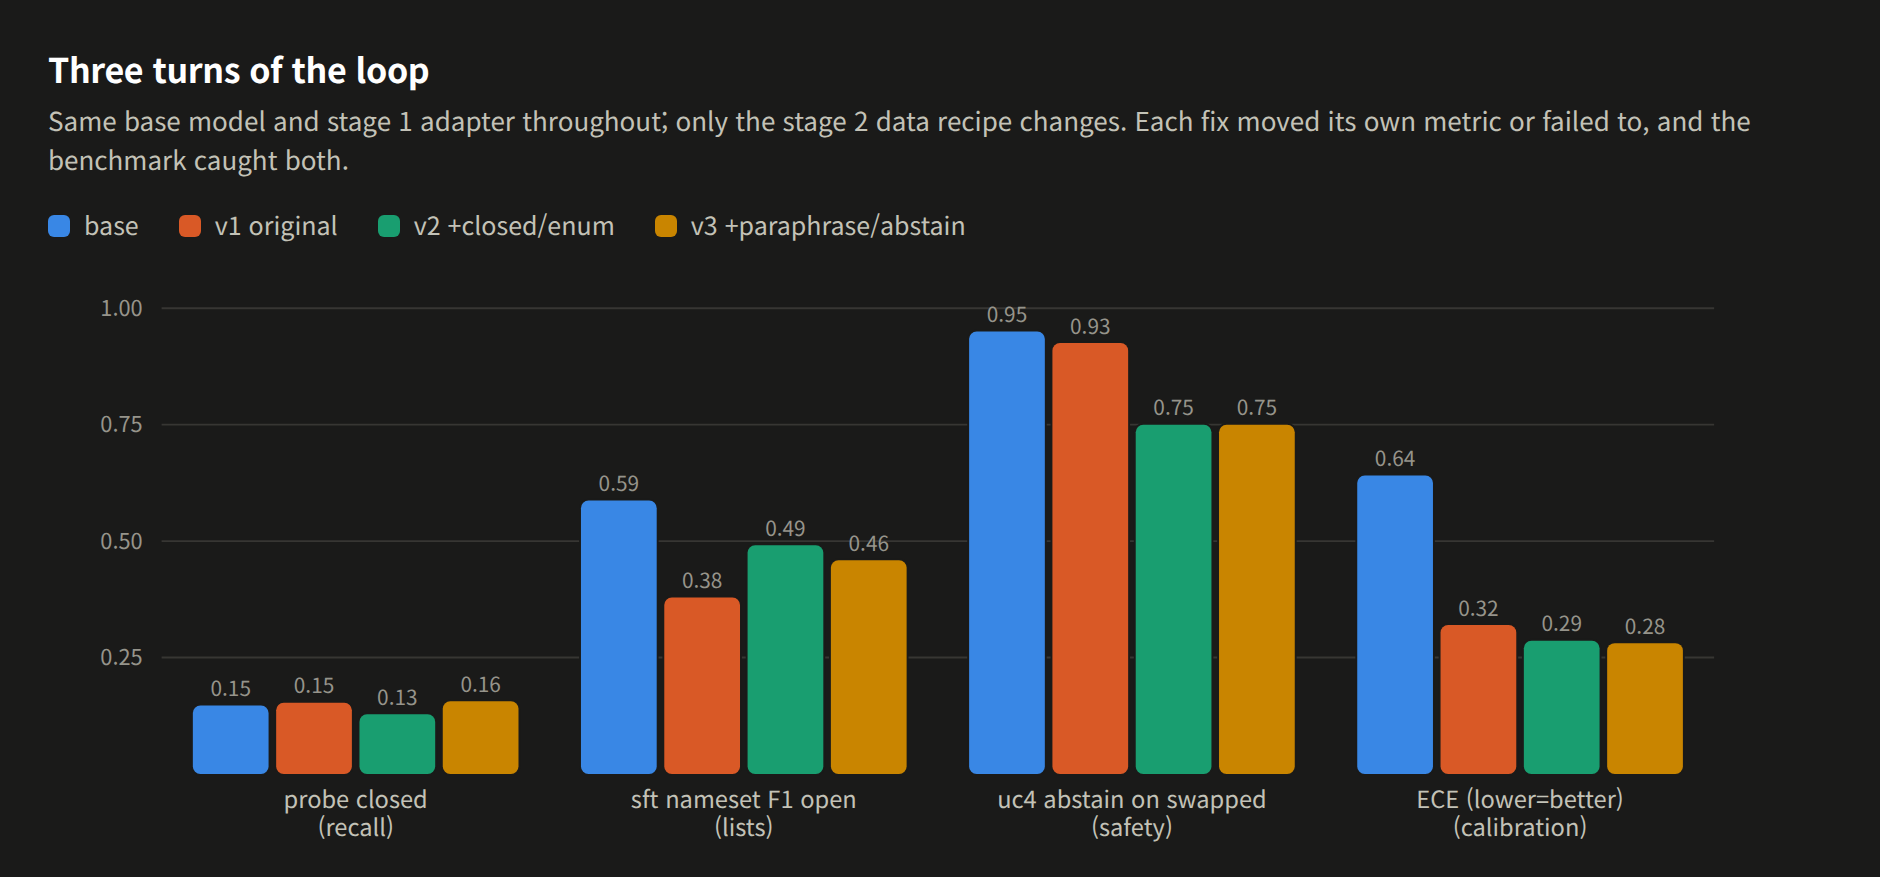
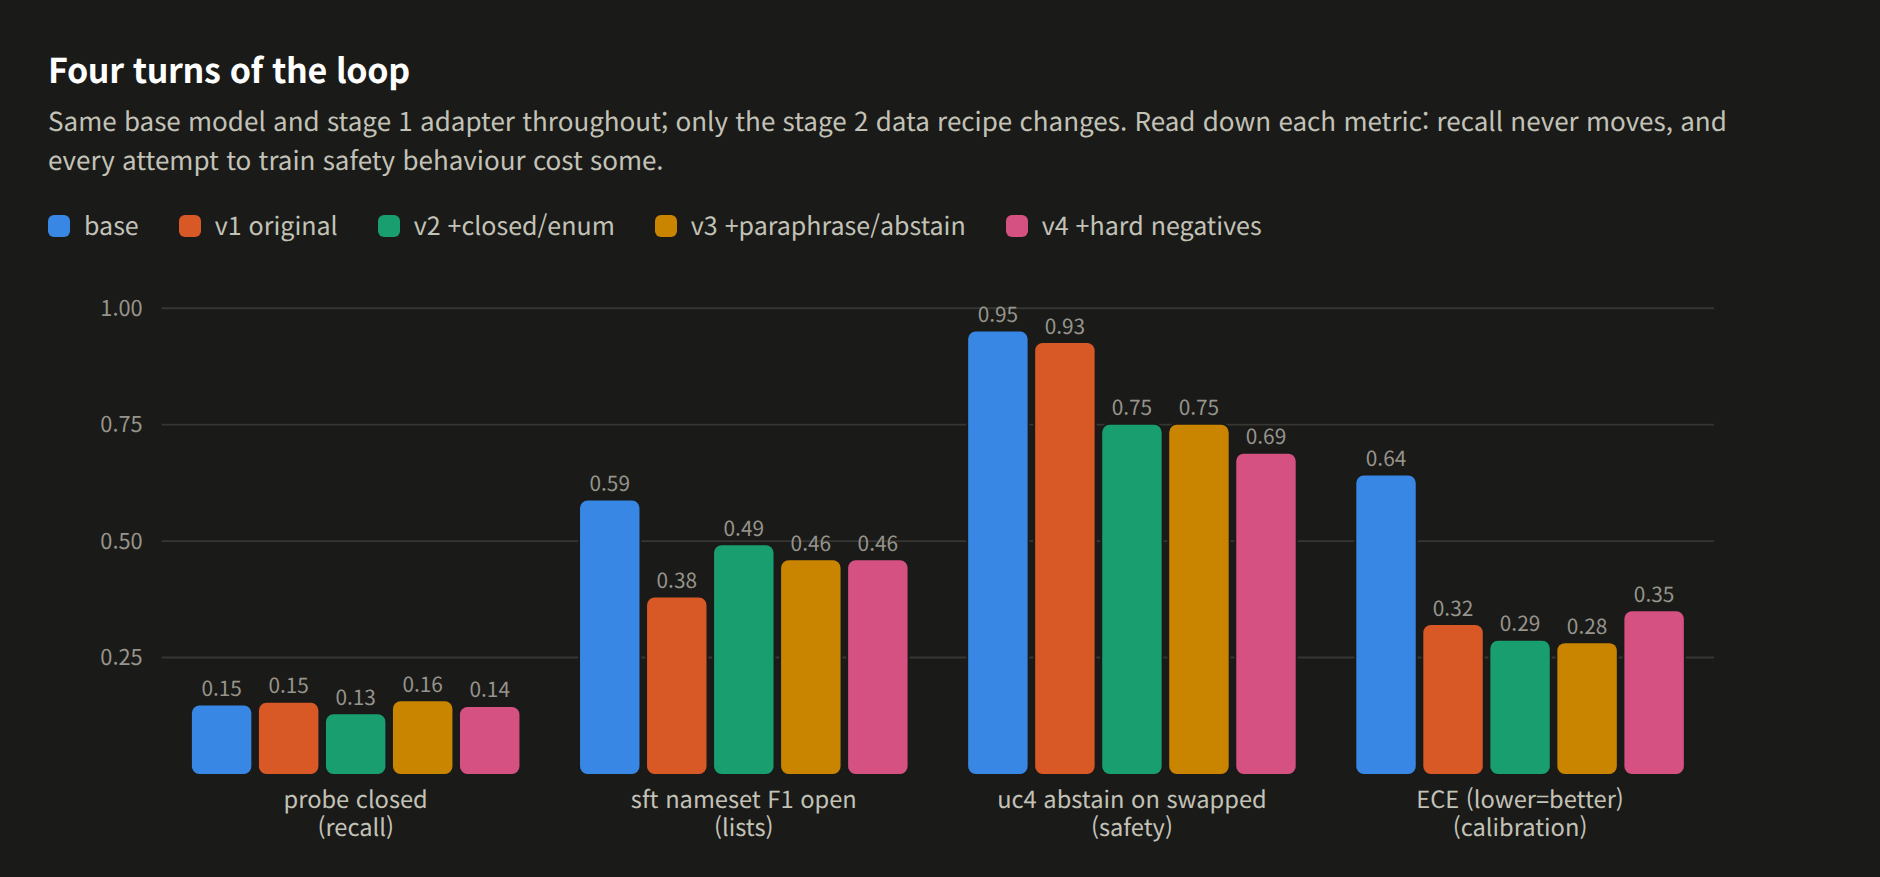
report the fourth turn: abstention is not trainable here, it is only breakable
v4 drew each refusal pair's swapped clause from the same document as the
question, on the theory that easy negatives were why v3's refusal training did
not transfer. It made things worse: abstention 0.750 to 0.688 (p=0.035 against
v3, p=0.005 against base), the supported-clause gain from v3 given back, and
the first calibration regression of the campaign.

Three refusal recipes - none, easy negatives, hard negatives - produced 0.925,
0.750 and 0.688, with the untrained base best at 0.950. That is not a training
signal that needs tuning; it is a capability the base model has and every
domain fine-tune erodes, hardest when aimed at directly. The readme says so,
and the deployment recommendation stays v1.

diff --git a/README.md b/README.md
@@ -532,7 +532,7 @@ That is the whole argument for building a benchmark this way. Perplexity said
 the training worked. The probe set said what it had cost. You need both numbers,
 on frozen items, before and after, or you are guessing.
 
-### Three turns of the loop, on this dataset
+### Four turns of the loop, on this dataset
 
 The example's fine-tunes are numbered by turn — each is the same base model and
 the same stage 1 adapter, retrained at stage 2 on a different data recipe, then
@@ -544,10 +544,11 @@ version number counts trips around the loop, nothing else.
 | `v1` | the original pairs, as generated | 15,666 | the dataset as designed (for RAG) |
 | `v2` | + closed-book variants, + enumeration pairs | 22,249 | can recall and full lists be trained in |
 | `v3` | + LLM paraphrases, + refusal-target pairs | 32,080 | does fact repetition inject recall; does trained refusal survive hard cases |
+| `v4` | same, refusal clauses drawn from the *same document* | 32,005 | is abstention recoverable with harder negatives |
 
 <picture>
   <source media="(prefers-color-scheme: dark)" srcset="doc/turns-dark.png">
-  <img alt="Four metrics across base, v1, v2 and v3. Recall stays near 0.15 throughout; nameset F1 falls 0.59 to 0.38 then recovers to 0.49 and 0.46; abstention falls 0.95 to 0.93 to 0.75 and stays; ECE improves 0.64 to 0.32 to 0.29 to 0.28." src="doc/turns-light.png">
+  <img alt="Four metrics across base, v1, v2, v3 and v4. Recall stays near 0.15 throughout; nameset F1 falls 0.59 to 0.38 then recovers to 0.49 and 0.46; abstention falls 0.95 to 0.93 to 0.75 and stays; ECE improves 0.64 to 0.32 to 0.29 to 0.28." src="doc/turns-light.png">
 </picture>
 
 Read down each metric rather than across: recall never moves, lists break and
@@ -589,23 +590,40 @@ clauses reached 0.988, the best of any checkpoint.
 All four checkpoints on the same frozen items, identical decoding
 (`--think off`, temperature 0):
 
-| Metric | base | v1 | v2 | v3 | Verdict |
-|---|---:|---:|---:|---:|---|
-| probe numeric, closed book | 0.147 | 0.153 | 0.128 | 0.156 | flat throughout (p = 0.78 vs base) |
-| `sft` numeric, closed book | 0.147 | 0.156 | 0.153 | 0.156 | flat throughout |
-| `sft` nameset F1, open book | 0.587 | 0.379 | 0.491 | 0.459 | broken by v1, half recovered by v2 |
-| `sft` numeric, open book | 0.944 | 0.959 | 0.956 | 0.947 | reading intact throughout |
-| uc4 abstention on swapped clauses | 0.950 | 0.925 | 0.750 | 0.750 | v2's cost, not repaired by v3 |
-| uc4 accuracy on supported clauses | 0.875 | 0.938 | 0.938 | **0.988** | best at v3 |
-| uc5 incident F1, open book | 0.468 | 0.564 | 0.530 | 0.565 | improved and held |
-| ECE, closed book (lower better) | 0.641 | 0.320 | 0.286 | **0.281** | improved every turn |
+| Metric | base | v1 | v2 | v3 | v4 | Verdict |
+|---|---:|---:|---:|---:|---:|---|
+| probe numeric, closed book | 0.147 | 0.153 | 0.128 | 0.156 | 0.144 | flat throughout (p = 0.78 vs base) |
+| `sft` numeric, closed book | 0.147 | 0.156 | 0.153 | 0.156 | 0.131 | flat throughout |
+| `sft` nameset F1, open book | 0.587 | 0.379 | 0.491 | 0.459 | 0.459 | broken by v1, half recovered by v2 |
+| `sft` numeric, open book | 0.944 | 0.959 | 0.956 | 0.947 | 0.941 | reading intact throughout |
+| uc4 abstention on swapped clauses | 0.950 | 0.925 | 0.750 | 0.750 | 0.688 | falls at every turn that targets it |
+| uc4 accuracy on supported clauses | 0.875 | 0.938 | 0.938 | **0.988** | 0.938 | best at v3 |
+| uc5 incident F1, open book | 0.468 | 0.564 | 0.530 | 0.565 | 0.529 | improved and held |
+| ECE, closed book (lower better) | 0.641 | 0.320 | 0.286 | **0.281** | 0.349 | improved until v4 |
 
-Three turns in, the honest summary is that this pipeline reliably improves how
-the model handles what it is given — calibration, reading, answering with
-support — and has not moved what the model knows. For the RAG agent the corpus
-was built for, the first half is the half that matters, and the checkpoint to
-deploy on safety grounds is still v1, the only fine-tune that kept abstention
-intact.
+The fourth turn attacked the abstention loss directly. If refusal trained on
+easy negatives did not transfer, harder ones should help: v4 draws each swapped
+clause from the *same document* as the question, so refusing cannot be decided
+from vocabulary alone. It made things worse. Abstention fell again, 0.750 →
+0.688 (p = 0.035 against v3, p = 0.005 against base), accuracy on supported
+clauses gave back its v3 gain, and calibration regressed for the first time in
+the campaign (ECE 0.281 → 0.349).
+
+That result reframes the diagnosis. Three different refusal recipes — none,
+easy negatives, hard negatives — produced 0.925, 0.750 and 0.688, and the
+untrained base is the best of all at 0.950. Abstention here does not behave like
+a skill that training installs; it behaves like one the base model already has
+and that every domain fine-tune erodes, harder the more directly it is targeted.
+Teaching a model to say "not in this clause" appears to teach hedging rather
+than judgement — which is why the supported-clause accuracy and the calibration
+error moved with it.
+
+Four turns in, the honest summary is that this pipeline reliably improves how
+the model handles what it is given — reading, answering with support, and
+calibration up to v3 — and has not moved what the model knows, and cannot be
+made to stop costing safety behaviour. For the RAG agent the corpus was built
+for, the checkpoint to deploy is still v1: the only fine-tune that kept
+abstention near its base, and the cheapest of the four to produce.
 
 ### Every figure above, as score tables
 
